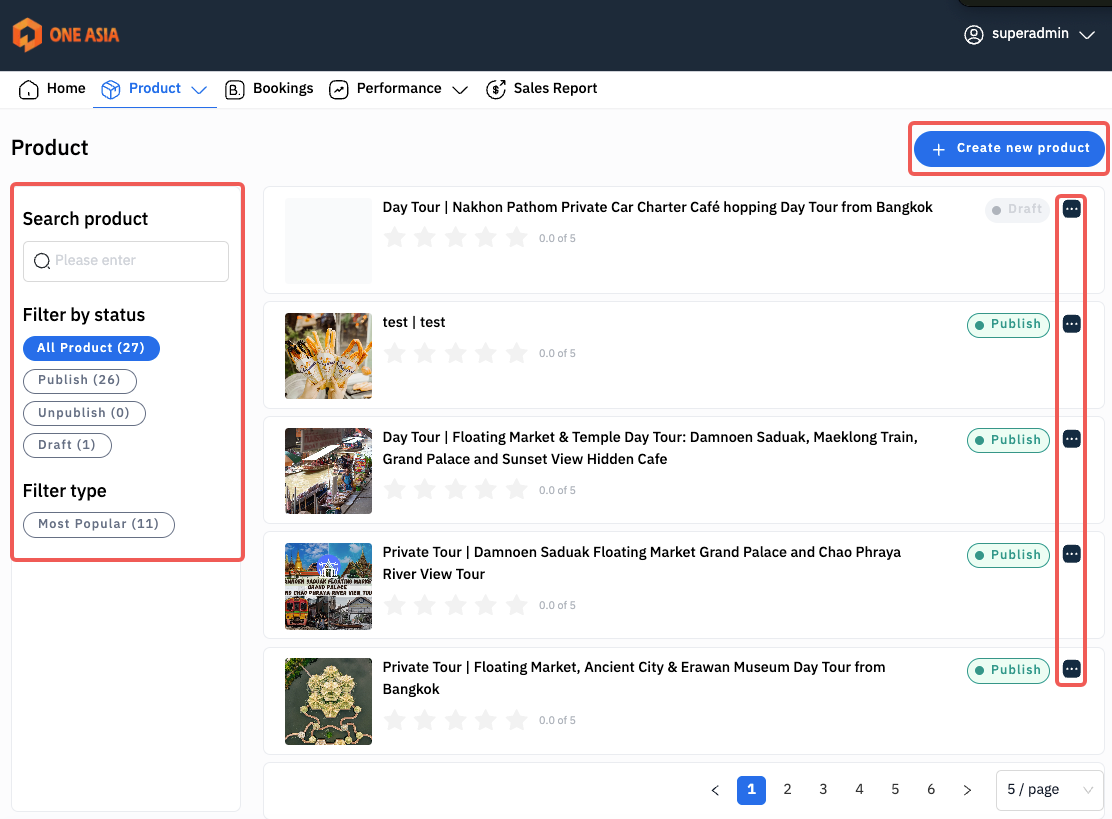
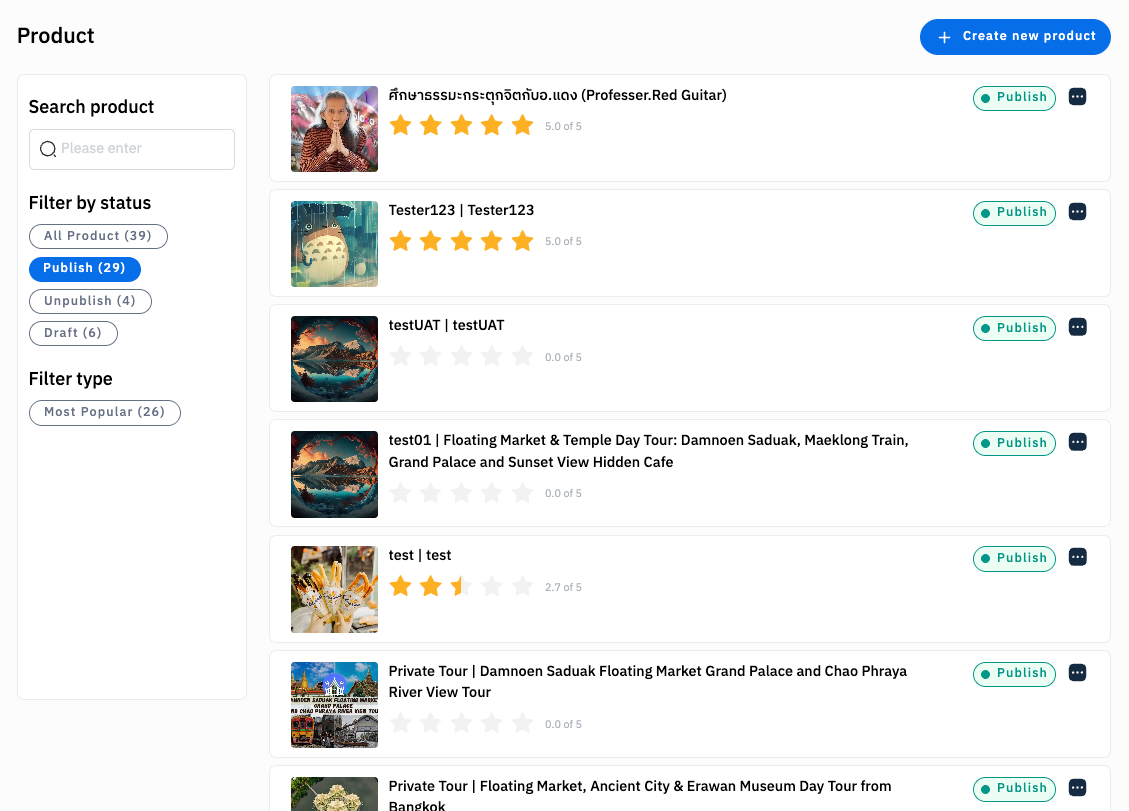
ลบไฟล์เอกสาร Product_list.mdx และ Product.mdx รวมถึงอัปเดตภาพ Product-list.png เพื่อเตรียมความพร้อมสำหรับการปรับปรุงในอนาคต

diff --git a/content/Product/Product/Product_list.md b/content/Product/Product/Product_list.md
@@ -9,11 +9,11 @@ import Tabs from '@theme/Tabs';
 import TabItem from '@theme/TabItem';
 
 มีส่วนสำคัญๆดังนี้
+
 - **Create new product** ใช้ในการสร้าง Product
 - **Filter** ระบบการช่วยค้นหา Product
 - **Action** ไว้ใช้ในการจัดการ Product
 
-![](/img/Product-menu.png)
 ![](/img/Product-list.png)
 
 <DocCardList />
